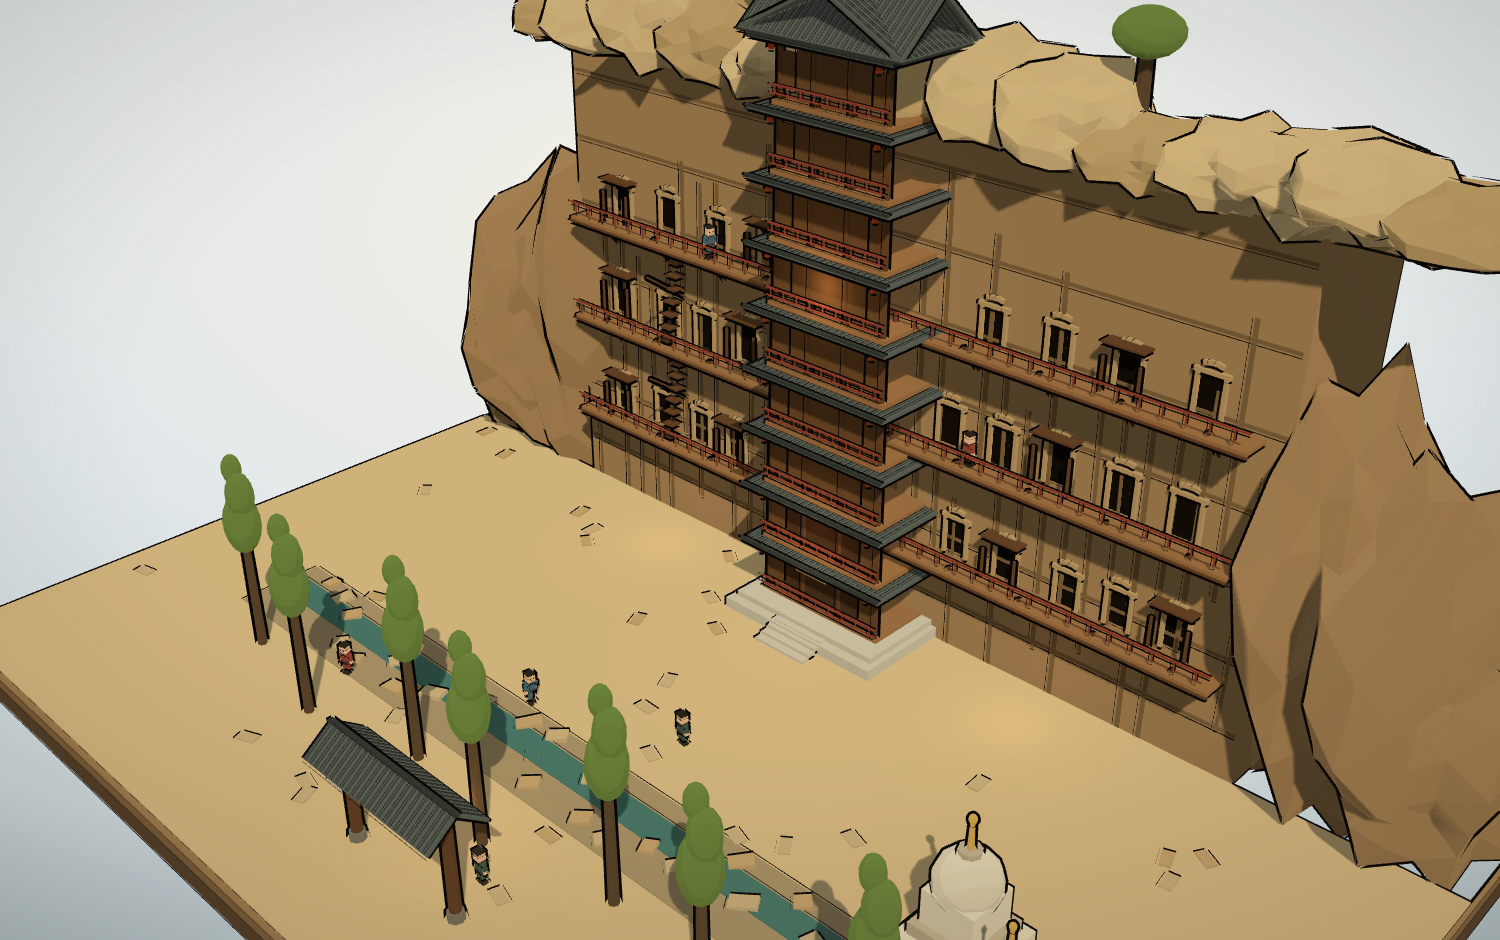
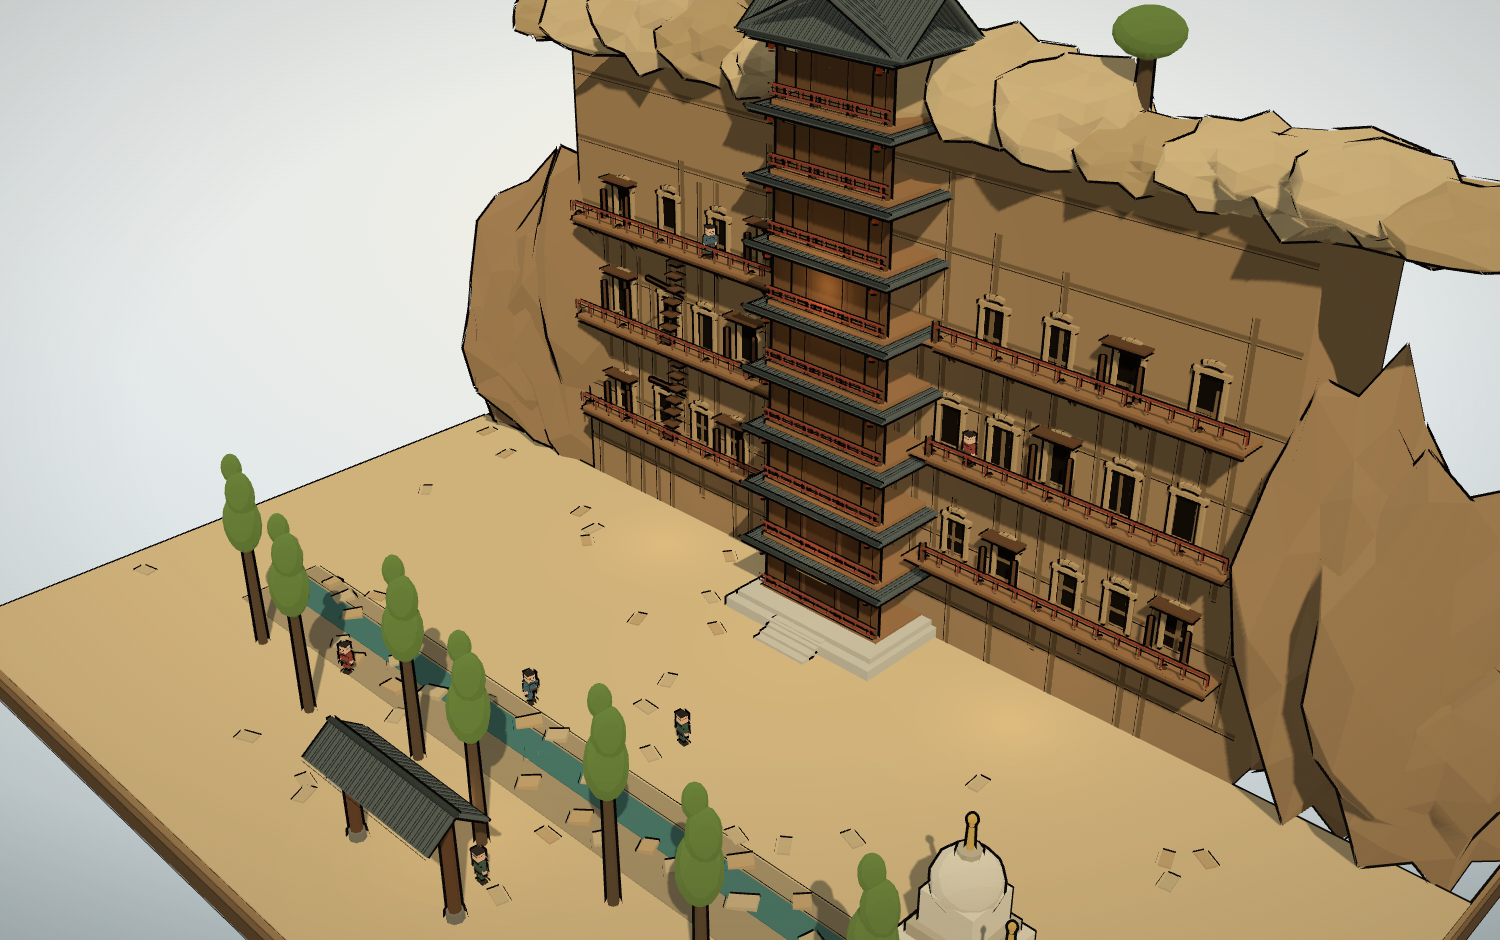
fix(mogao): 栈道拆两段绕开九层楼，断口加踏板

diff --git a/docs/mogao.html b/docs/mogao.html
@@ -20289,18 +20289,27 @@ function mgNine(b) {
 function mgWalk(b) {
   const levels = [5.35, 10.75, 16.15];
   levels.forEach(function (y, k) {
-    b.box('mgWood', 38.0, 0.16, 1.5, 0, y, MG_CZ + 0.78);
-    b.box('mgWoodD', 38.0, 0.09, 0.24, 0, y - 0.12, MG_CZ + 1.5);
-    /* 栏杆 */
-    b.box('mgWoodR', 38.0, 0.07, 0.09, 0, y + 0.86, MG_CZ + 1.48);
-    for (let i = 0; i < 38; i++) {
-      b.box('mgWoodR', 0.06, 0.50, 0.06, -18.6 + i * 1.0, y + 0.60, MG_CZ + 1.48);
-    }
-    /* 斜撑：插入崖壁的短木 */
-    for (let i = 0; i < 10; i++) {
-      const x = -17.0 + i * 3.8;
-      b.cyl('mgBeam', 0.09, 0.10, 1.9, 6, x, y - 0.55, MG_CZ + 0.55, 0.72, 0, 0);
-    }
+    /* 栈道分两段，楼前断开（真实是绕楼，不穿楼身） */
+    [[-18.9, -4.5], [4.5, 18.9]].forEach(function (rng) {
+      const len = rng[1] - rng[0], cx = (rng[0] + rng[1]) / 2;
+      b.box('mgWood', len, 0.16, 1.5, cx, y, MG_CZ + 0.78);
+      b.box('mgWoodD', len, 0.09, 0.24, cx, y - 0.12, MG_CZ + 1.5);
+      b.box('mgWoodR', len, 0.07, 0.09, cx, y + 0.86, MG_CZ + 1.48);
+      const n = Math.max(4, Math.round(len / 1.0));
+      for (let i = 0; i <= n; i++) {
+        b.box('mgWoodR', 0.06, 0.50, 0.06, rng[0] + i * len / n, y + 0.60, MG_CZ + 1.48);
+      }
+      /* 斜撑：插入崖壁的短木 */
+      for (let i = 0; i <= n; i += 3) {
+        b.cyl('mgBeam', 0.09, 0.10, 1.9, 6, rng[0] + i * len / n, y - 0.55, MG_CZ + 0.55, 0.72, 0, 0);
+      }
+    });
+    /* 楼前收头：两段栈道贴着九层楼台基终止，加一根端柱 */
+    [-4.5, 4.5].forEach(function (ex) {
+      b.box('mgWoodD', 0.14, 1.05, 0.14, ex, y + 0.50, MG_CZ + 1.42);
+      /* 连接踏板：栈道端头接到楼板，断口才有交代 */
+      b.box('mgWood', 0.95, 0.10, 1.55, ex + (ex < 0 ? 0.47 : -0.47), y + 0.02, MG_CZ + 0.85);
+    });
     /* 楼梯：连接上一层，左右各一处之字 */
     if (k < 2) {
       /* 每层一处窄梯，贴着崖壁上下 */

diff --git a/src/scene.js b/src/scene.js
@@ -20148,18 +20148,27 @@ function mgNine(b) {
 function mgWalk(b) {
   const levels = [5.35, 10.75, 16.15];
   levels.forEach(function (y, k) {
-    b.box('mgWood', 38.0, 0.16, 1.5, 0, y, MG_CZ + 0.78);
-    b.box('mgWoodD', 38.0, 0.09, 0.24, 0, y - 0.12, MG_CZ + 1.5);
-    /* 栏杆 */
-    b.box('mgWoodR', 38.0, 0.07, 0.09, 0, y + 0.86, MG_CZ + 1.48);
-    for (let i = 0; i < 38; i++) {
-      b.box('mgWoodR', 0.06, 0.50, 0.06, -18.6 + i * 1.0, y + 0.60, MG_CZ + 1.48);
-    }
-    /* 斜撑：插入崖壁的短木 */
-    for (let i = 0; i < 10; i++) {
-      const x = -17.0 + i * 3.8;
-      b.cyl('mgBeam', 0.09, 0.10, 1.9, 6, x, y - 0.55, MG_CZ + 0.55, 0.72, 0, 0);
-    }
+    /* 栈道分两段，楼前断开（真实是绕楼，不穿楼身） */
+    [[-18.9, -4.5], [4.5, 18.9]].forEach(function (rng) {
+      const len = rng[1] - rng[0], cx = (rng[0] + rng[1]) / 2;
+      b.box('mgWood', len, 0.16, 1.5, cx, y, MG_CZ + 0.78);
+      b.box('mgWoodD', len, 0.09, 0.24, cx, y - 0.12, MG_CZ + 1.5);
+      b.box('mgWoodR', len, 0.07, 0.09, cx, y + 0.86, MG_CZ + 1.48);
+      const n = Math.max(4, Math.round(len / 1.0));
+      for (let i = 0; i <= n; i++) {
+        b.box('mgWoodR', 0.06, 0.50, 0.06, rng[0] + i * len / n, y + 0.60, MG_CZ + 1.48);
+      }
+      /* 斜撑：插入崖壁的短木 */
+      for (let i = 0; i <= n; i += 3) {
+        b.cyl('mgBeam', 0.09, 0.10, 1.9, 6, rng[0] + i * len / n, y - 0.55, MG_CZ + 0.55, 0.72, 0, 0);
+      }
+    });
+    /* 楼前收头：两段栈道贴着九层楼台基终止，加一根端柱 */
+    [-4.5, 4.5].forEach(function (ex) {
+      b.box('mgWoodD', 0.14, 1.05, 0.14, ex, y + 0.50, MG_CZ + 1.42);
+      /* 连接踏板：栈道端头接到楼板，断口才有交代 */
+      b.box('mgWood', 0.95, 0.10, 1.55, ex + (ex < 0 ? 0.47 : -0.47), y + 0.02, MG_CZ + 0.85);
+    });
     /* 楼梯：连接上一层，左右各一处之字 */
     if (k < 2) {
       /* 每层一处窄梯，贴着崖壁上下 */

diff --git a/README.md b/README.md
@@ -84,7 +84,7 @@
 | `tulou` | 福建土楼 · 承启楼 | 日景 / 圆形巨构 | 外径 30.4 米、墙厚 1.5、四层 36 开间环廊、环形双坡瓦顶、内院祠堂与水井、门前半月池、旗杆石与竹林菜地 |
 | `lijiang` | 丽江古城 · 四方街 | 日景 / 河街街区 | 56×44 米：玉河贯南、三座石桥、四方街与骑楼店铺、木府三进与牌坊、两岸三坊一照壁民居、双水车与垂柳 |
 | `xuankong` | 悬空寺 · 恒山 | 日景 / 崖壁贴壁 | 56×40 米：崖壁（中间平壁贴楼阁 + 两侧低模岩山 + 山脊）、三层楼阁悬挑、栈道与斜撑、谷底石渠与山门 |
-| `mogao` | 敦煌莫高窟 | 日景 / 崖壁洞窟 | 60×40 米：砾岩崖壁、三层窟门阵列（拱券 + 壁画色块）、九层楼、三层之字栈道、塔林五座、宕泉河 |
+| `mogao` | 敦煌莫高窟 | 日景 / 崖壁洞窟 | 60×40 米：砾岩崖壁、三层窟门阵列（拱券 + 壁画色块）、九层楼、三层之字栈道（楼前断开绕行）、塔林五座、宕泉河 |
 
 ## 快速开始
 
@@ -519,7 +519,7 @@ CT_ANIM.push(function (t) {
   一排方块沙脊会像堆起来的纸箱。
 - **宕泉河**：干河床 + 一线残水（水面必须高于地面，否则被埋）。
 
-定稿 91 mesh / 53587 三角，`magenta:[] / errors:[]`；23 套全量回归全绿。
+定稿 91 mesh / 53515 三角，`magenta:[] / errors:[]`；23 套全量回归全绿。
 ### 人物：刻意几何化的积木人
 
 拟真路线（球头 + 锥台躯干 + 分段圆柱四肢）在这套 toon + 描边风格里
